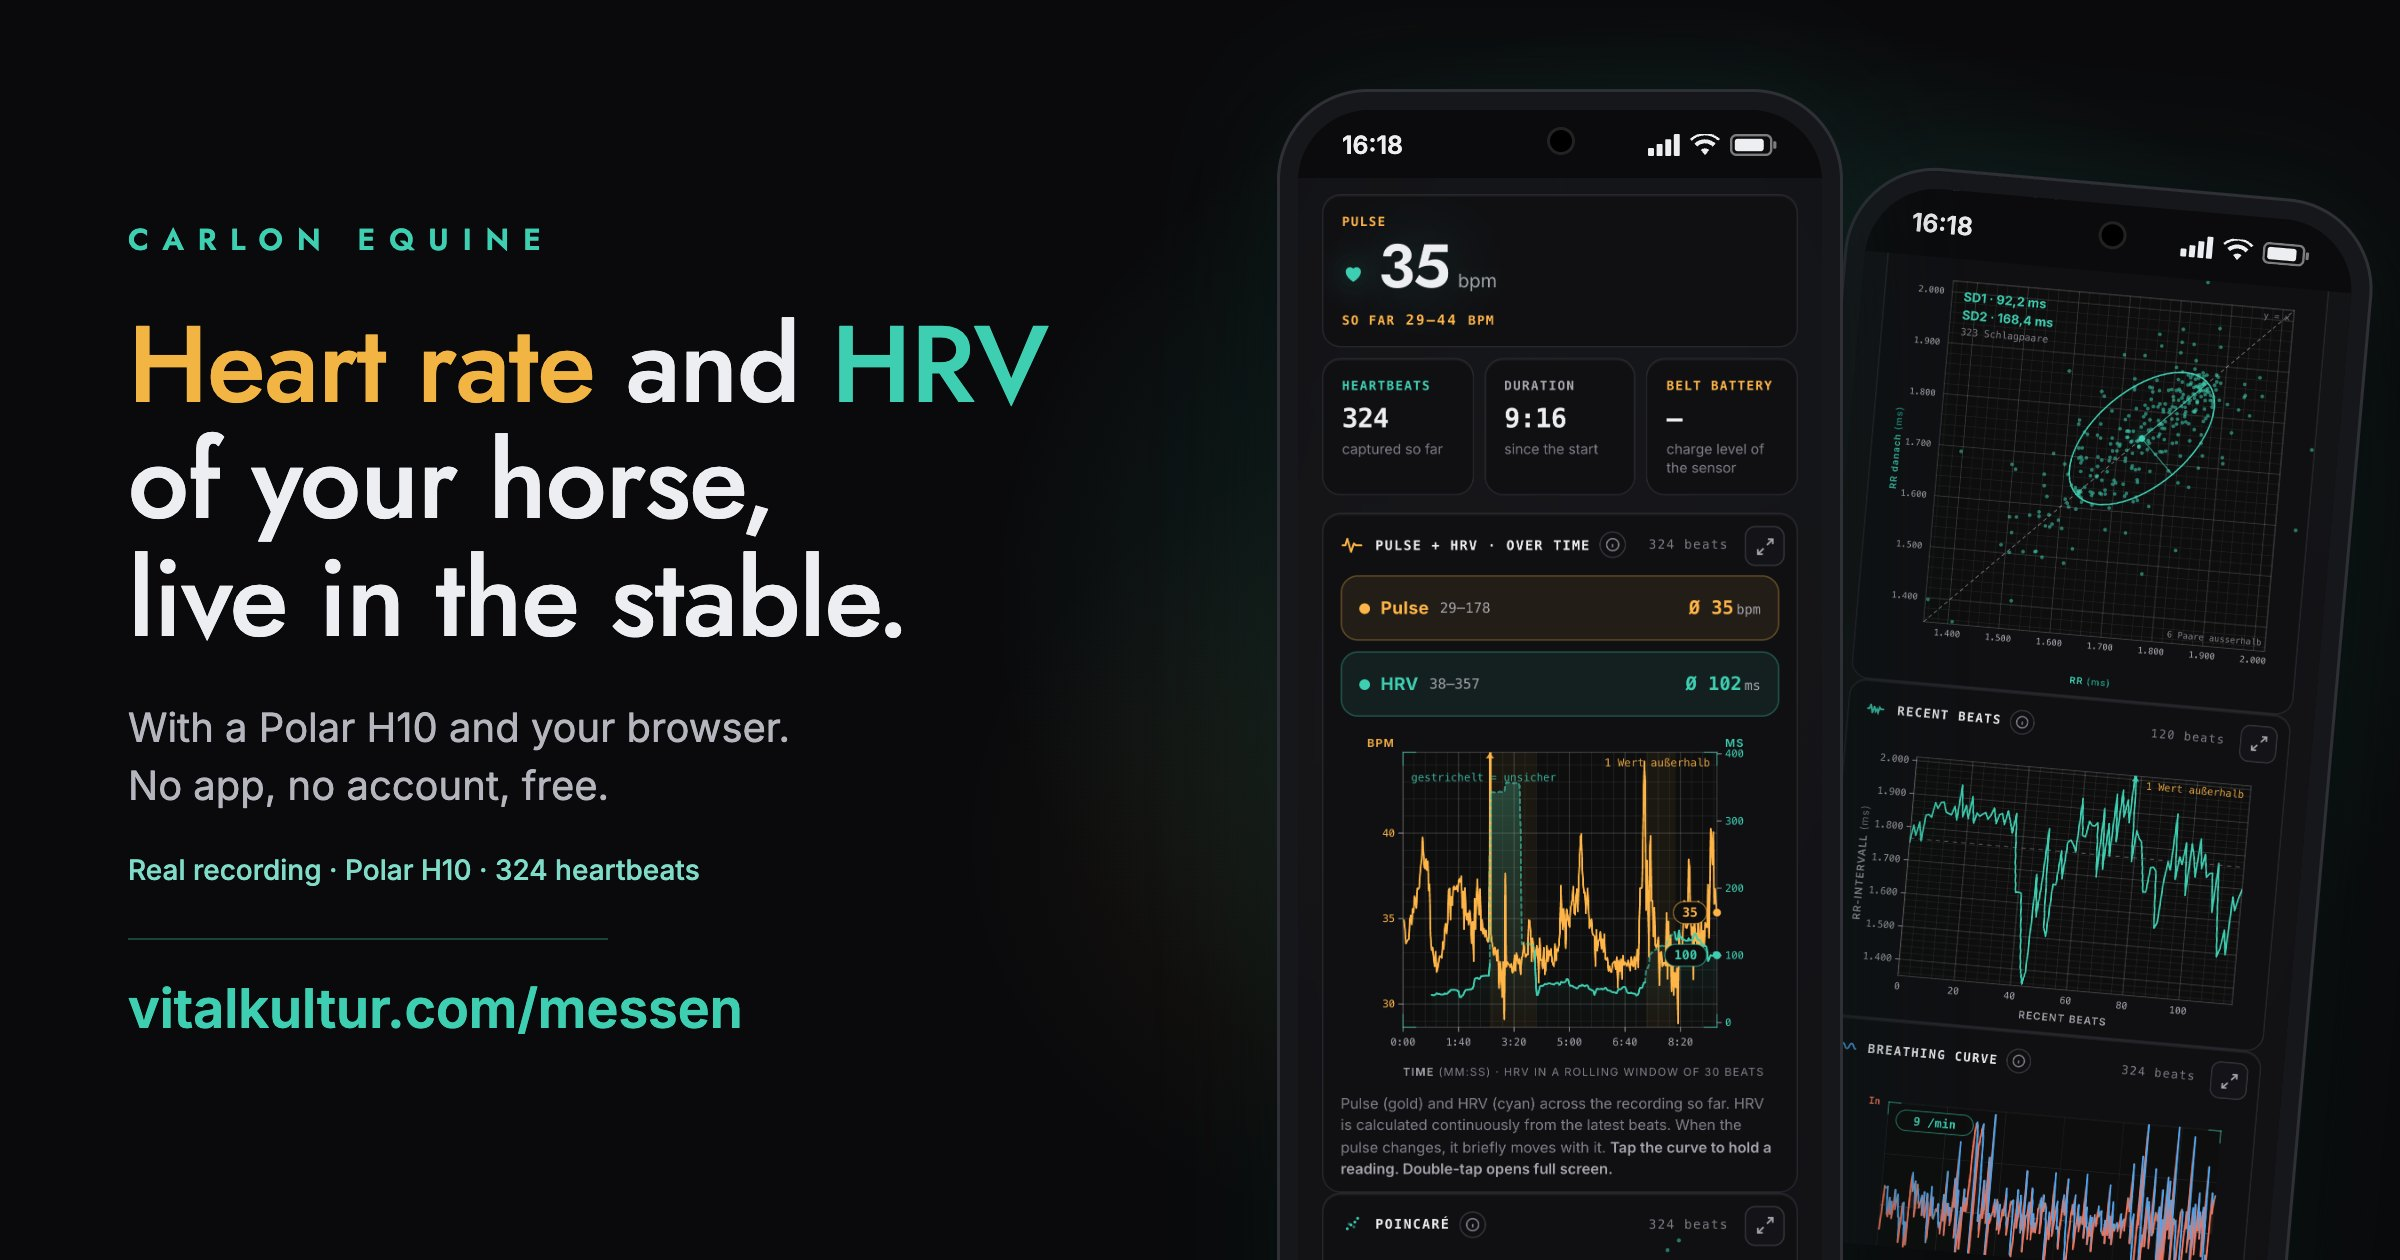
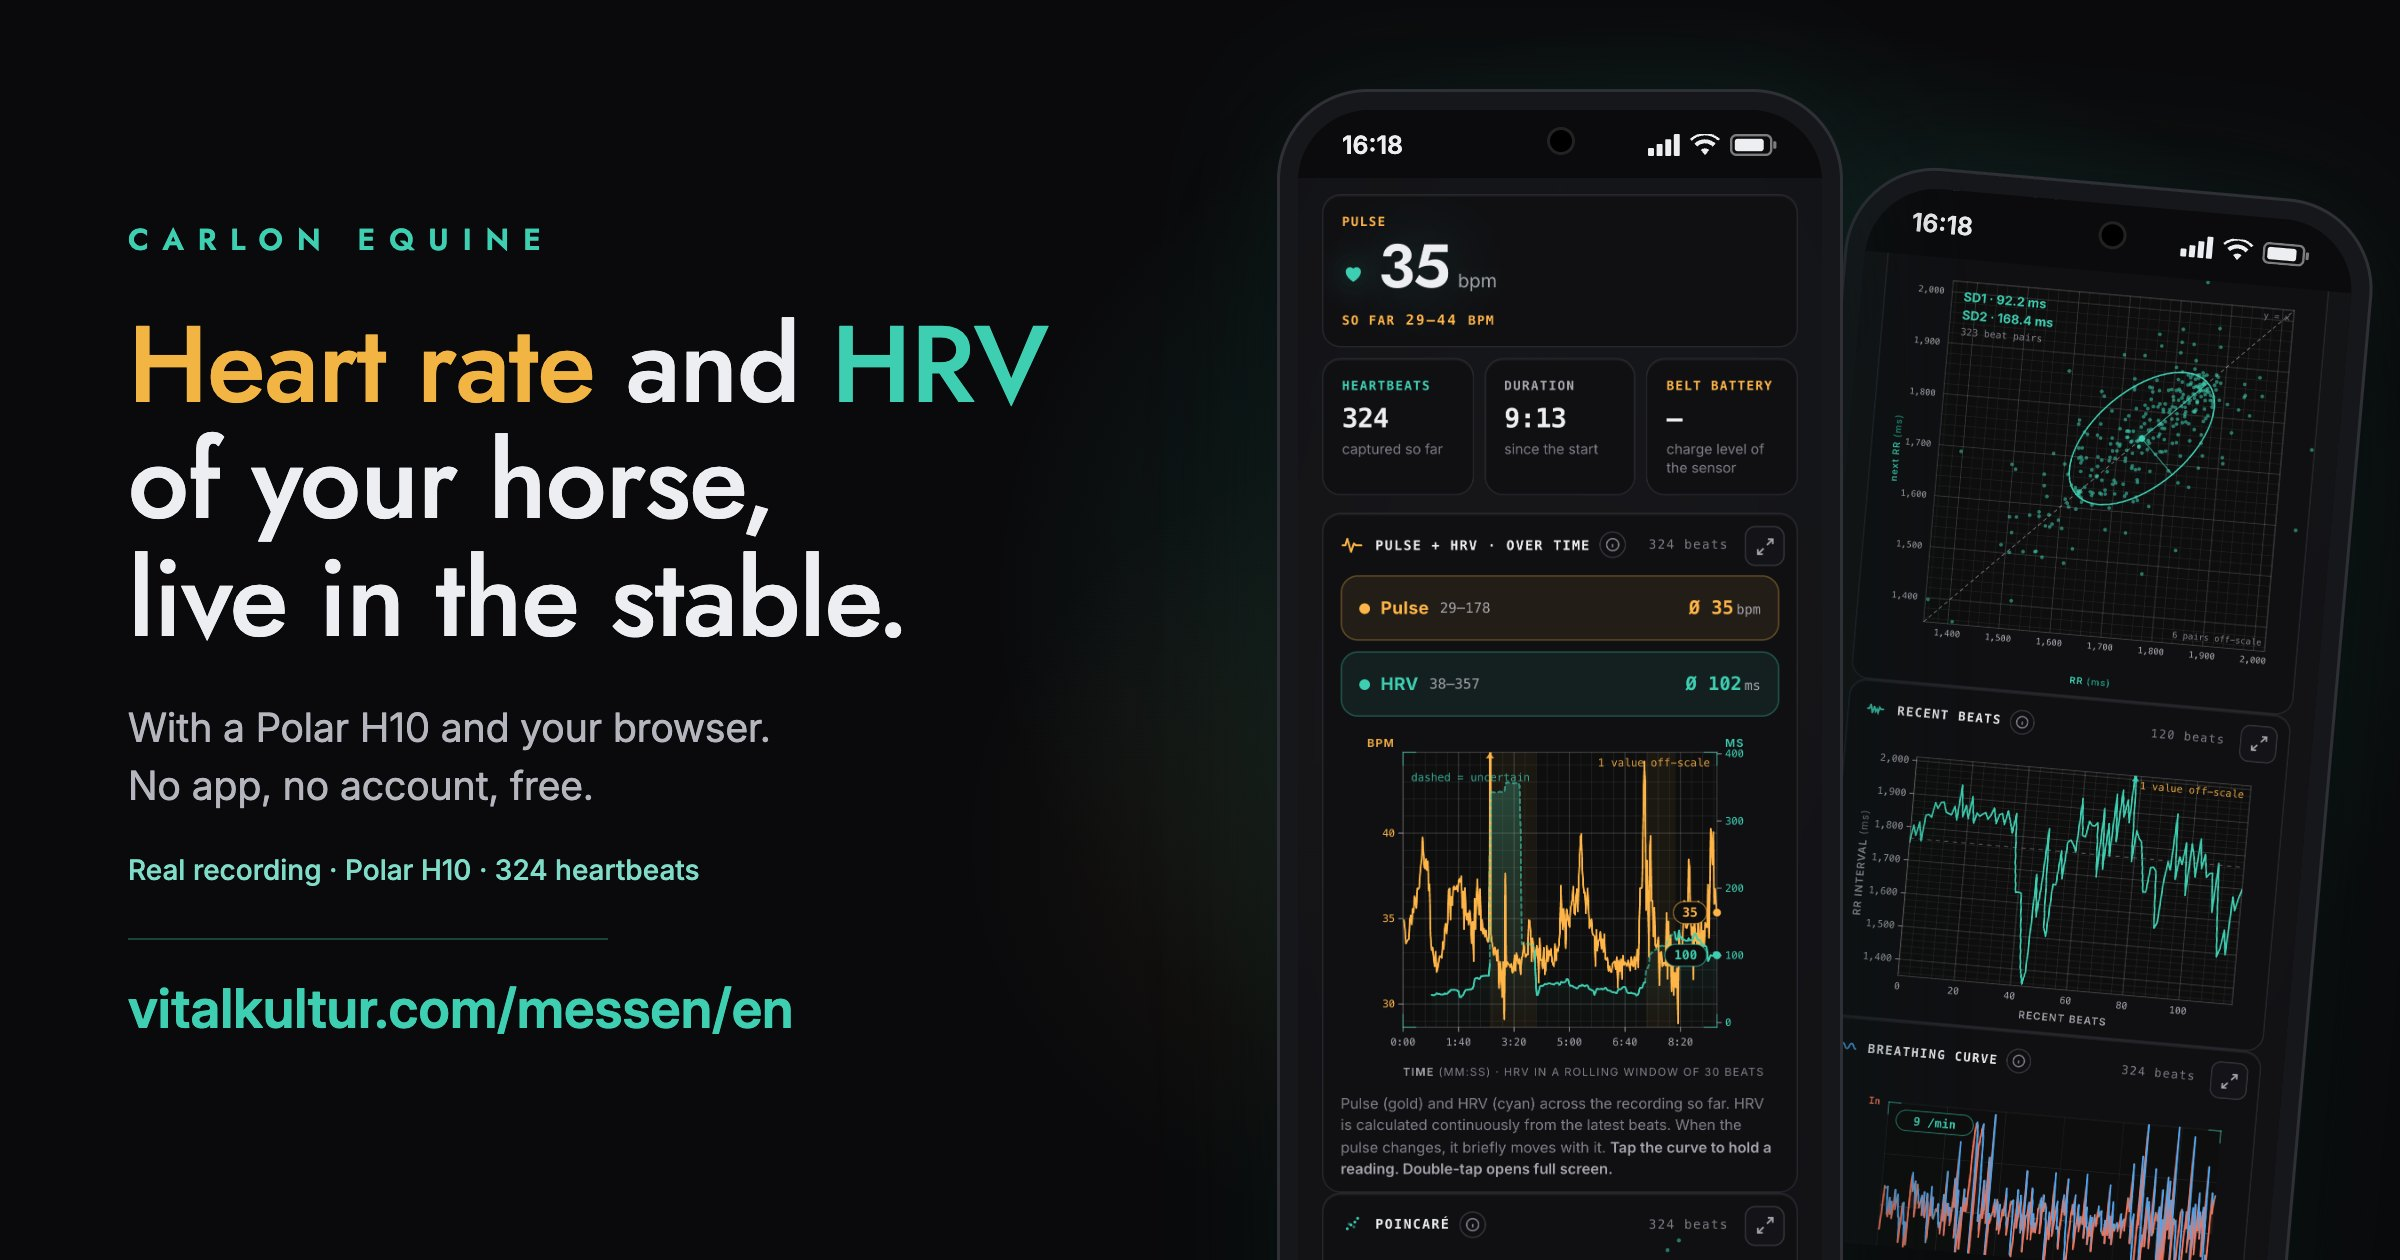
Messstation EN: Kurzadresse /messen/en mit englischer Teilkarte, hreflang auf beiden Kurzadressen
Englische Karte aus den korrigierten Live-Bildschirmen (Equine dea2495), Adresse
vitalkultur.com/messen/en im Bild. Weiterleitung setzt lang=en, Anfrage und Anker
reisen mit (Probe ?p=probe#k=1 bestaetigt). EN-Scan live: 440 Texte, 0 deutsch.

Claude-Session: https://claude.ai/code/session_013UDG6nv5Lv4xRpTG7n4W6o

Changed region(s): [[0.0625, 0.7738, 0.3438, 0.8357], [0.0625, 0.5571, 0.3438, 0.65]]

diff --git a/messen/en/index.html b/messen/en/index.html
@@ -1,0 +1,54 @@
+<!doctype html>
+<html lang="en">
+<meta charset="utf-8">
+<meta http-equiv="Content-Security-Policy" content="default-src 'self'; script-src 'self' 'unsafe-inline' https://gc.zgo.at; style-src 'self' 'unsafe-inline'; img-src 'self' data: https://vitalkultur.goatcounter.com https://tile.openstreetmap.org; media-src 'self'; connect-src 'self' https://vitalkultur.goatcounter.com https://anmeldung.carlon.app https://postfach.carlon.app https://lizenz.carlon.app https://nominatim.openstreetmap.org; object-src 'none'; base-uri 'self'; form-action 'self'; frame-src 'none'">
+<meta name="referrer" content="strict-origin-when-cross-origin">
+<meta name="viewport" content="width=device-width, initial-scale=1">
+<title>Measure: CARLON Equine</title>
+<!-- Kurze englische Adresse fuer geteilte Links und Aushaenge (Website, 24.11.2026).
+     Eigene Seite, weil og:image ohne JavaScript gelesen wird: nur so bekommt ein
+     englischer Link die englische Vorschau. Leitet mit lang=en weiter; Anfrage
+     (z. B. ?p=haendler) und Anker reisen mit, wie bei /messen. -->
+<link rel="canonical" href="https://vitalkultur.com/carlon-equine/app/messen.html?lang=en">
+<link rel="alternate" hreflang="de" href="https://vitalkultur.com/messen">
+<link rel="alternate" hreflang="en" href="https://vitalkultur.com/messen/en">
+<link rel="alternate" hreflang="x-default" href="https://vitalkultur.com/messen">
+<meta property="og:type" content="website">
+<meta property="og:site_name" content="CARLON Equine · Vitalkultur">
+<meta property="og:locale" content="en_GB">
+<meta property="og:locale:alternate" content="de_DE">
+<meta property="og:url" content="https://vitalkultur.com/messen/en">
+<meta property="og:title" content="Heart rate and HRV of your horse, live in the stable">
+<meta property="og:description" content="Measure your horse's resting HRV with a Polar H10 right in the browser. No app, no account, free. You send the recording to your veterinary practice.">
+<meta property="og:image" content="https://vitalkultur.com/carlon-equine/assets/og-messstation-v3-en.jpg">
+<meta property="og:image:secure_url" content="https://vitalkultur.com/carlon-equine/assets/og-messstation-v3-en.jpg">
+<meta property="og:image:type" content="image/jpeg">
+<meta property="og:image:width" content="2400">
+<meta property="og:image:height" content="1260">
+<meta property="og:image:alt" content="Two smartphones showing the CARLON measuring station: heart rate and HRV over time, Poincaré cloud and recent beats from a real horse recording with the Polar H10. vitalkultur.com/messen/en">
+<meta name="twitter:card" content="summary_large_image">
+<meta name="twitter:title" content="Heart rate and HRV of your horse, live in the stable">
+<meta name="twitter:description" content="Measure your horse's resting HRV with a Polar H10 right in the browser. No app, no account, free. You send the recording to your veterinary practice.">
+<meta name="twitter:image" content="https://vitalkultur.com/carlon-equine/assets/og-messstation-v3-en.jpg">
+<meta http-equiv="refresh" content="0; url=/carlon-equine/app/messen.html?lang=en">
+<meta name="description" content="Measure your horse's heart rhythm in the browser. No app, no account.">
+<meta name="theme-color" content="#0A0A0C">
+<style>
+  html,body{margin:0;height:100%;background:#0A0A0C;color:#EDEEF1;
+    font-family:Inter,system-ui,-apple-system,sans-serif}
+  main{height:100%;display:flex;flex-direction:column;align-items:center;
+    justify-content:center;gap:14px;text-align:center;padding:24px}
+  a{color:#3ECFB2;font-weight:600;text-decoration:none}
+  .mark{font-size:13px;letter-spacing:.34em;color:#3ECFB2}
+  p{color:#A3A4AD;font-size:14px;margin:0}
+</style>
+<main>
+  <div class="mark">CARLON EQUINE</div>
+  <p>One moment, the measuring station is opening.</p>
+  <a href="/carlon-equine/app/messen.html?lang=en">Go to the measuring station</a>
+</main>
+<script>
+var q=new URLSearchParams(location.search); q.set('lang','en');
+location.replace('/carlon-equine/app/messen.html?' + q.toString() + location.hash);
+</script>
+</html>

diff --git a/messen/index.html b/messen/index.html
@@ -24,6 +24,9 @@
      jene, damit Suchmaschinen nicht zwei Seiten für dieselbe Sache führen.
      ═══════════════════════════════════════════════════════════════════════ -->
 <link rel="canonical" href="https://vitalkultur.com/carlon-equine/app/messen.html">
+<link rel="alternate" hreflang="de" href="https://vitalkultur.com/messen">
+<link rel="alternate" hreflang="en" href="https://vitalkultur.com/messen/en">
+<link rel="alternate" hreflang="x-default" href="https://vitalkultur.com/messen">
 <meta property="og:type" content="website">
 <meta property="og:site_name" content="CARLON Equine · Vitalkultur">
 <meta property="og:locale" content="de_DE">
